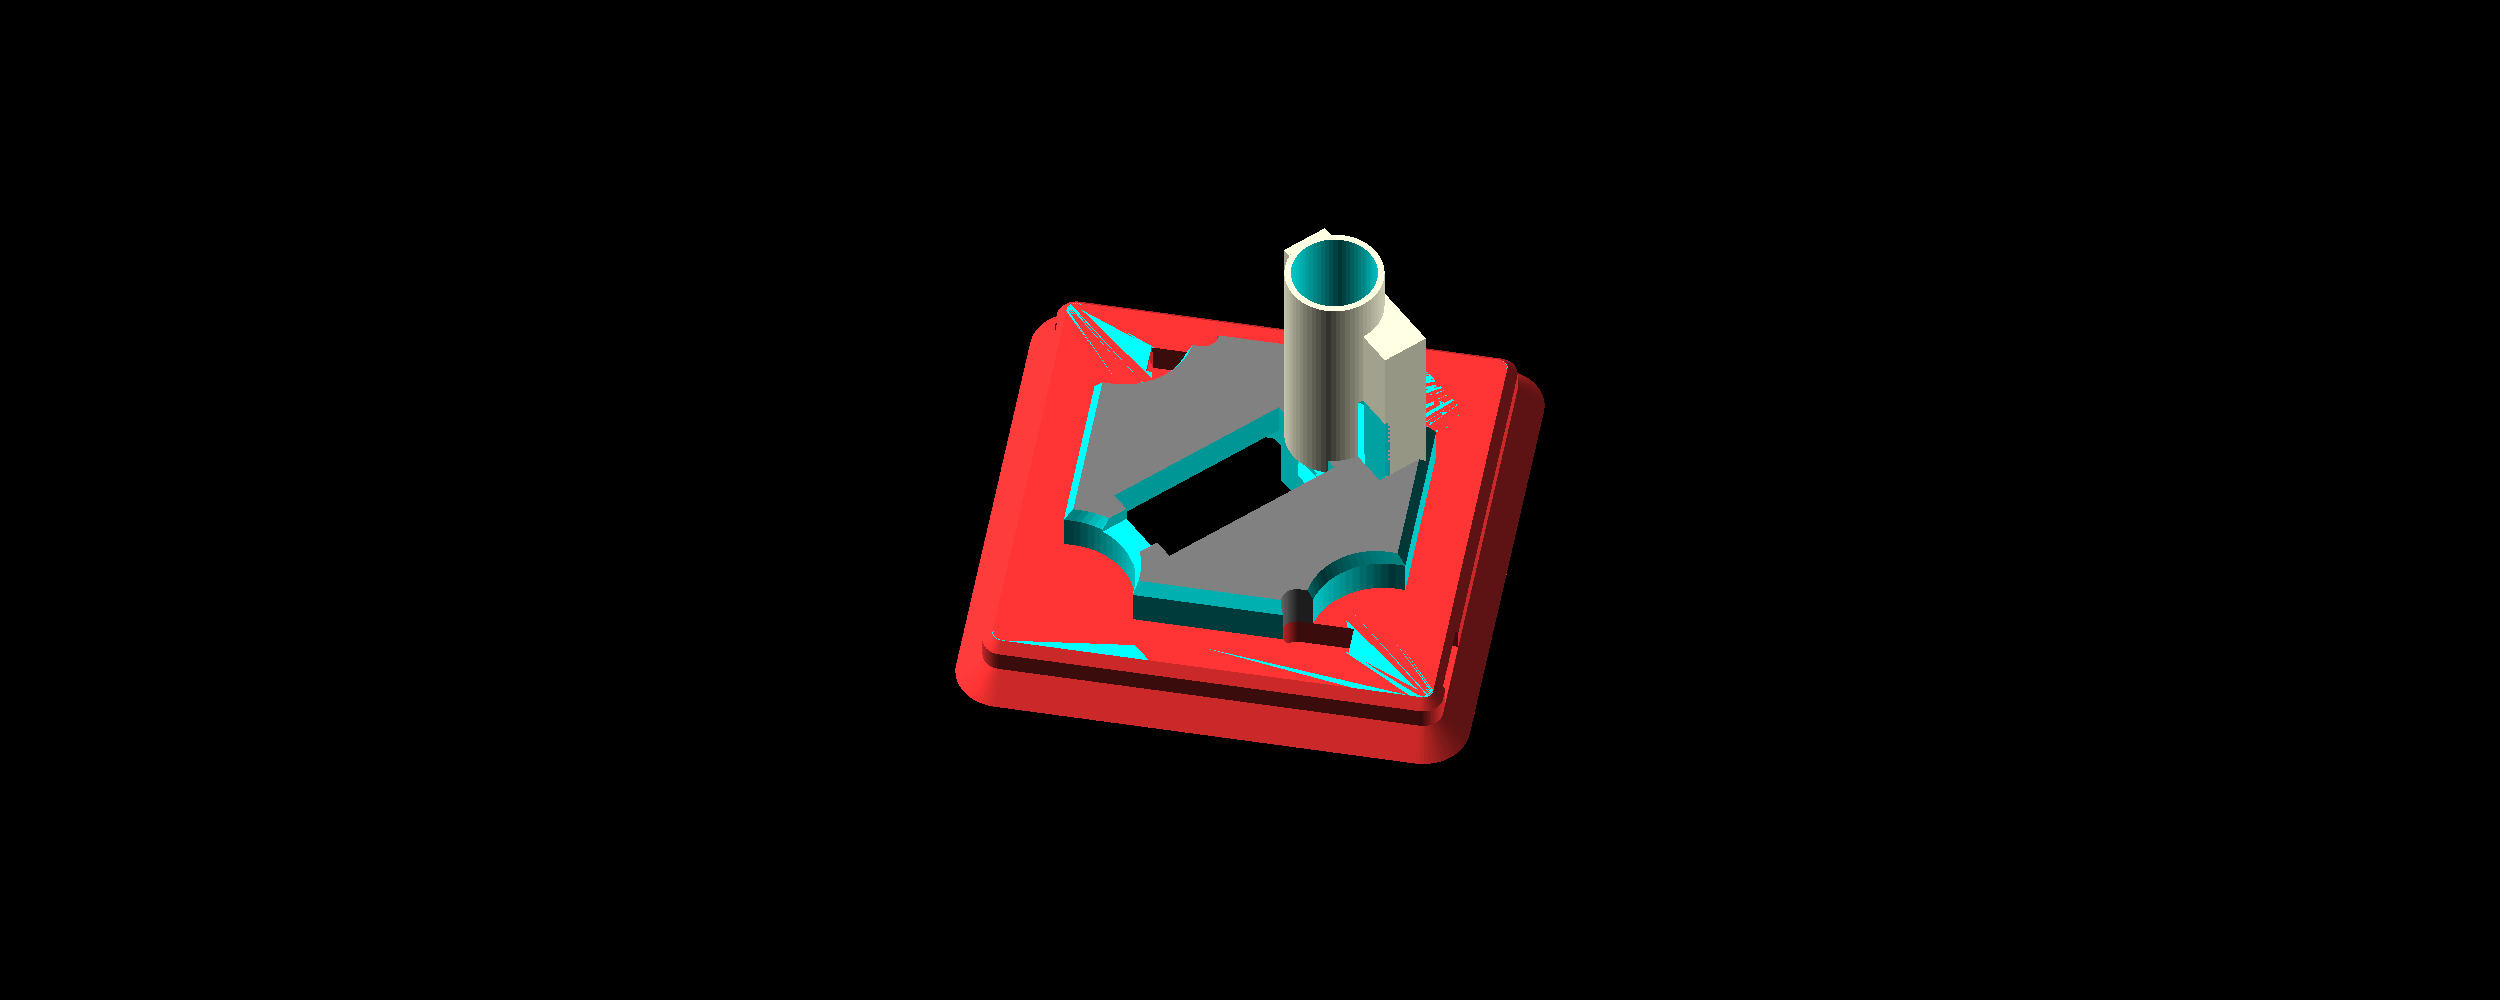
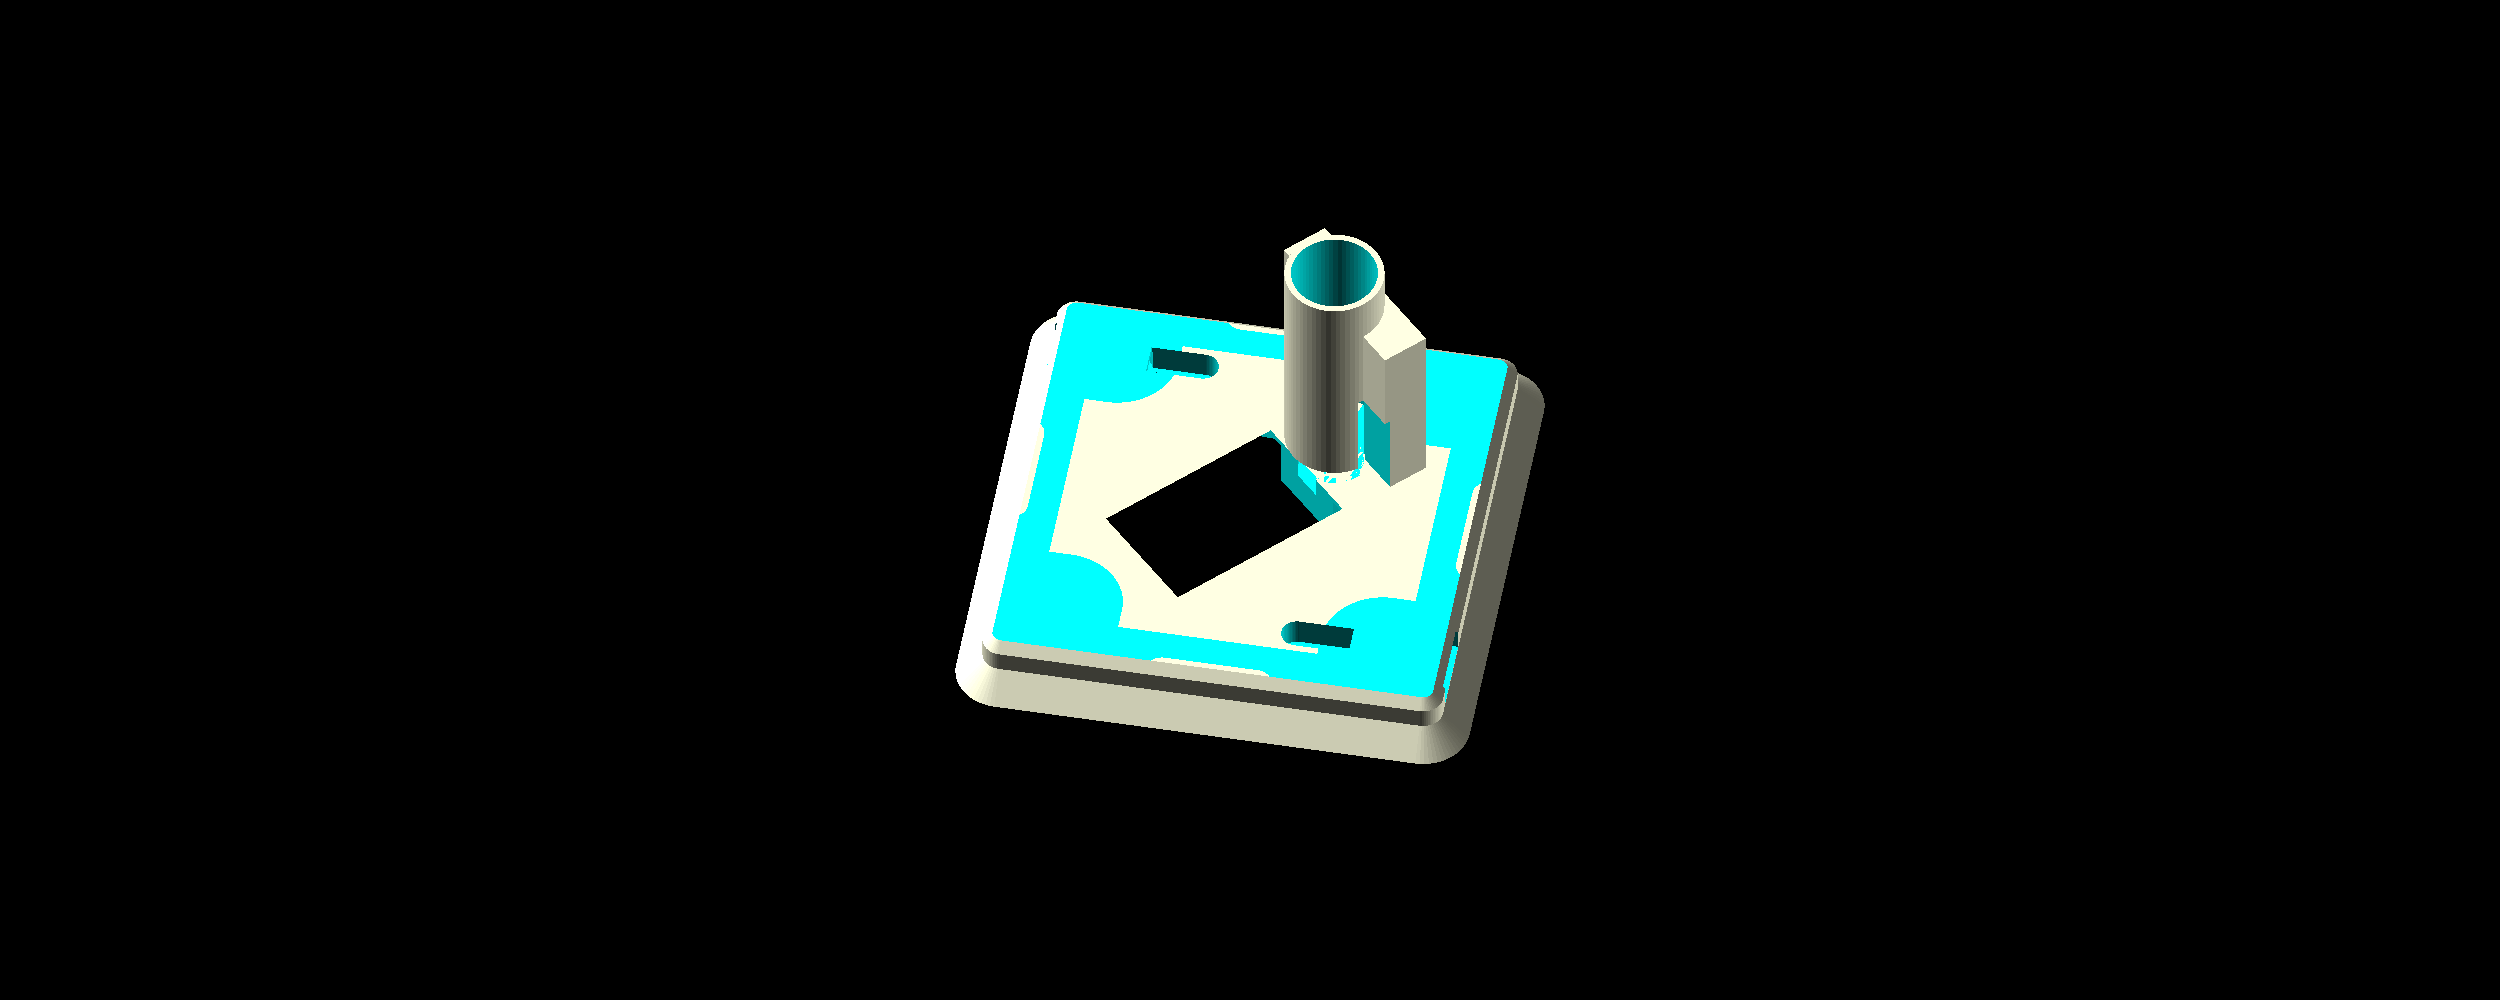
Use CGAL for colored jig documentation renders

Changed region(s): [[0.3744, 0.31, 0.624, 0.775]]

diff --git a/README.md b/README.md
@@ -224,10 +224,10 @@ Now you can use the pusher to insert the magnet into the baseplate:
 Pull the pusher back into its original position to release the baseplate. You can now turn the jig by 90° to insert the next magnet, and then move the baseplate to fill the next square with magnets.
 
 <!-- These images are generated for regression detection purposes. -->
-<!-- openscad -o docs/images/jig-main.png --camera=0,0,0,40,0,10,200 -D part='"jig"' mag_insert_jig.scad -->
-<!-- openscad -o docs/images/jig-pusher.png --camera=0,0,0,40,0,10,200 -D part='"pusher"' mag_insert_jig.scad -->
-<!-- openscad -o docs/images/jig-main-below.png --camera=0,0,0,140,0,10,200 -D part='"jig"' mag_insert_jig.scad -->
-<!-- openscad -o docs/images/jig-pusher-below.png --camera=0,0,0,140,0,10,200 -D part='"pusher"' mag_insert_jig.scad -->
+<!-- openscad -o docs/images/jig-main.png --backend=CGAL --camera=0,0,0,40,0,10,200 -D part='"jig"' mag_insert_jig.scad -->
+<!-- openscad -o docs/images/jig-pusher.png --backend=CGAL --camera=0,0,0,40,0,10,200 -D part='"pusher"' mag_insert_jig.scad -->
+<!-- openscad -o docs/images/jig-main-below.png --backend=CGAL --camera=0,0,0,140,0,10,200 -D part='"jig"' mag_insert_jig.scad -->
+<!-- openscad -o docs/images/jig-pusher-below.png --backend=CGAL --camera=0,0,0,140,0,10,200 -D part='"pusher"' mag_insert_jig.scad -->
 
 ### Release slot
 
